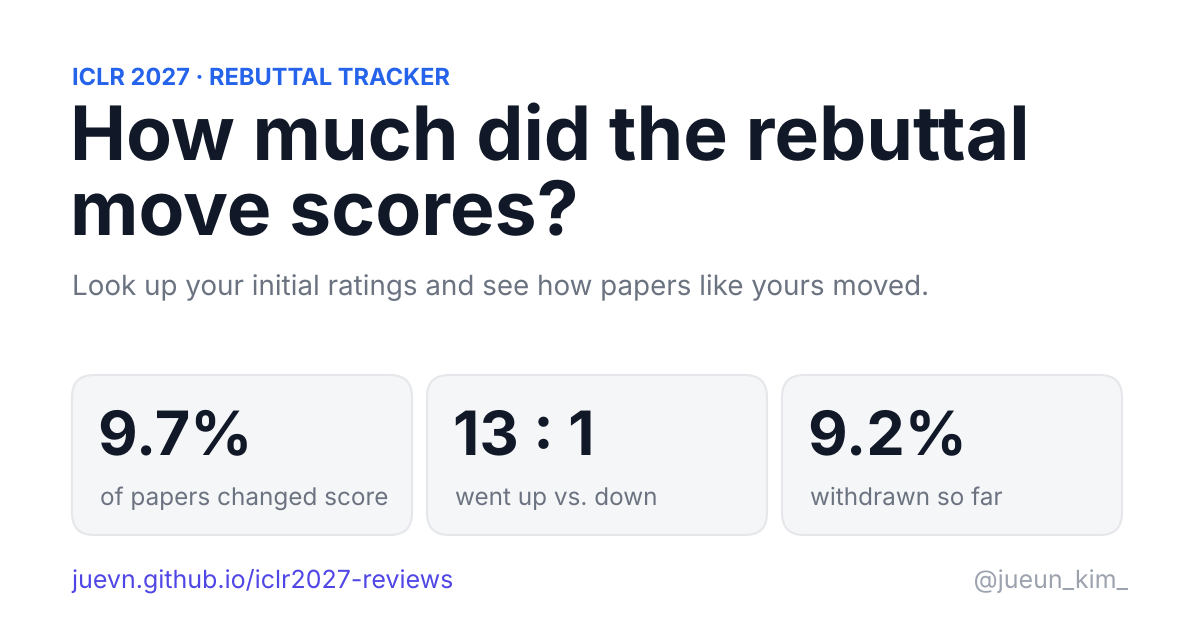
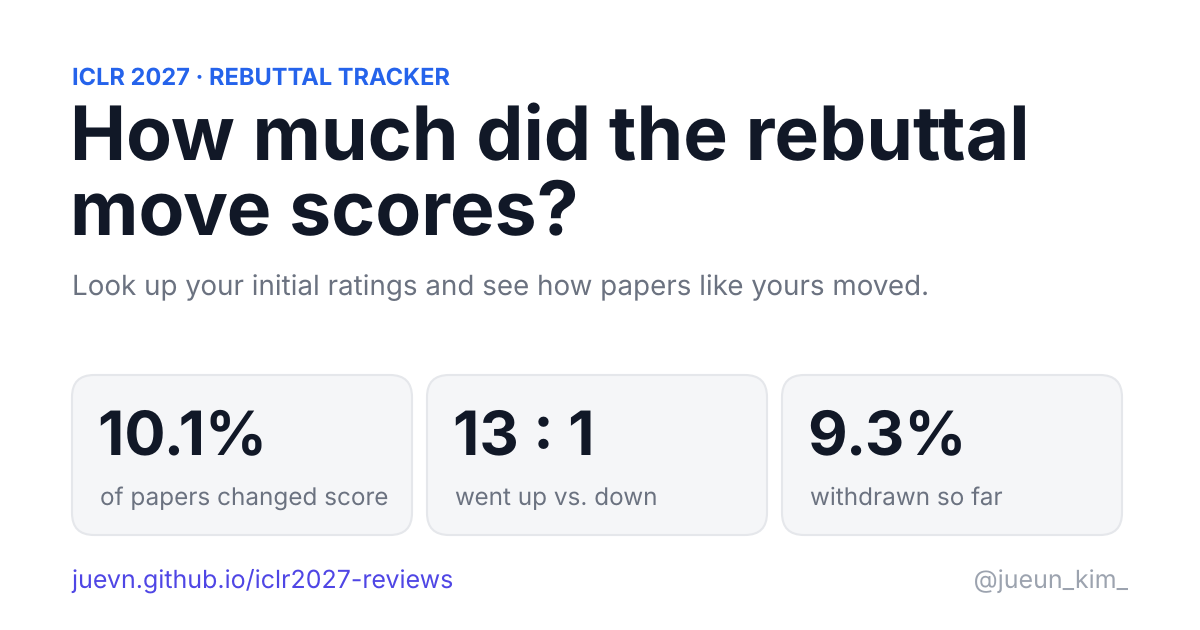
Update to 2026-11-16T16:23Z; show where papers went, record edit times
Claude-Session: https://claude.ai/code/session_01TcxDZfia7MrzcEvY8LDLi9

Changed region(s): [[0.0617, 0.6333, 0.2158, 0.7238], [0.7092, 0.6635, 0.8017, 0.7238]]

diff --git a/data.js b/data.js
@@ -1,27 +1,27 @@
 // Aggregated numbers only. No review text, reviewer ids or per-paper rows.
-// combos: initial ratings on Nov 6 (sorted high to low) ->
+// combos: initial ratings (sorted high to low) ->
 //   [papers, withdrawn, desk_rejected, still active with same review count, went up, went down, mixed, sum of rating-sum changes]
 window.ICLR_DATA = {
   venue: "ICLR 2027",
   scale: [1,4],
   baseline: {"at":"2026-11-06T13:54:47Z","source":"https://shiqiangw.github.io/iclr-2027-scores/","by":"shiqiangw"},
-  updated: "2026-11-16T14:59:02Z",
+  updated: "2026-11-16T16:23:09Z",
   discussionEnds: "2026-11-18",
   decisions: "2026-12-16",
   combos: {
-    "1":[2,0,0,0,0,0,0,0],"2":[2,0,0,0,0,0,0,0],"11":[27,9,0,13,0,0,0,0],"21":[73,11,0,34,0,0,0,0],"22":[104,1,0,64,2,0,0,2],"31":[24,0,0,13,0,0,0,0],
+    "1":[2,0,0,0,0,0,0,0],"2":[2,0,0,0,0,0,0,0],"11":[27,9,0,13,0,0,0,0],"21":[73,11,0,33,0,0,0,0],"22":[104,1,0,63,2,0,0,2],"31":[24,0,0,13,0,0,0,0],
     "32":[75,0,0,34,3,1,0,2],"33":[20,0,0,15,0,0,0,0],"41":[1,0,0,1,0,0,0,0],"42":[5,0,0,3,1,0,0,1],"43":[2,0,0,1,0,0,0,0],"44":[1,0,0,1,0,0,0,0],
-    "111":[764,205,0,557,2,0,0,2],"211":[3062,729,1,2320,53,11,0,51],"221":[6602,1333,4,5244,252,20,0,273],"222":[7463,687,1,6756,548,31,4,590],"311":[651,102,1,543,14,15,0,-2],"321":[3548,257,0,3280,310,35,2,324],
-    "322":[7667,74,2,7568,800,52,1,846],"331":[675,3,0,669,83,7,0,95],"332":[3733,5,1,3713,549,33,3,552],"333":[773,0,0,769,64,1,0,68],"411":[30,2,0,28,3,0,0,4],"421":[215,4,1,210,20,6,0,13],
-    "422":[418,0,0,418,52,11,0,48],"431":[79,0,0,77,5,0,0,8],"432":[515,1,0,513,81,4,0,81],"433":[198,0,0,195,14,0,0,15],"441":[6,0,0,6,2,0,0,3],"442":[40,0,0,39,12,0,1,15],
-    "443":[28,0,0,28,1,0,0,1],"444":[2,0,0,2,0,0,0,0],"1111":[29,4,1,24,0,0,0,0],"2111":[107,26,0,79,1,0,0,1],"2211":[245,55,0,190,5,1,0,5],"2221":[428,67,0,355,22,1,0,24],
-    "2222":[455,57,1,396,38,0,1,40],"3111":[17,4,0,13,0,0,0,0],"3211":[111,12,0,98,4,3,0,2],"3221":[336,25,0,311,28,2,0,36],"3222":[565,20,0,542,79,1,0,87],"3311":[28,3,0,25,1,0,1,1],
-    "3321":[133,2,0,131,22,0,0,25],"3322":[435,1,0,428,76,6,0,84],"3331":[27,0,0,27,4,2,0,2],"3332":[156,0,0,155,33,0,0,34],"3333":[17,0,0,17,0,1,0,-1],"4111":[1,0,0,1,0,0,0,0],
-    "4211":[8,0,0,8,0,0,0,0],"4221":[25,0,0,25,2,0,0,4],"4222":[40,0,0,40,6,0,0,7],"4311":[1,0,0,1,0,0,0,0],"4321":[28,0,0,28,0,2,0,-3],"4322":[51,0,0,51,9,1,0,9],
-    "4331":[8,0,0,8,1,0,0,1],"4332":[38,0,0,38,5,2,0,2],"4333":[7,0,0,7,0,0,0,0],"4421":[1,0,0,1,0,0,0,0],"4422":[3,0,0,3,1,0,0,1],"4431":[2,0,0,2,1,0,0,3],
+    "111":[764,207,0,555,3,0,0,3],"211":[3062,734,1,2315,54,11,0,52],"221":[6602,1344,4,5234,268,23,0,287],"222":[7463,691,1,6752,568,31,4,612],"311":[651,103,1,542,16,15,0,0],"321":[3548,257,0,3280,319,36,2,334],
+    "322":[7667,76,2,7564,831,51,2,881],"331":[675,3,0,669,86,7,0,98],"332":[3733,6,1,3712,577,34,3,581],"333":[773,0,0,769,66,1,0,71],"411":[30,2,0,28,3,0,0,4],"421":[215,4,1,210,22,6,0,15],
+    "422":[418,0,0,418,55,11,0,51],"431":[79,0,0,77,6,1,0,10],"432":[515,1,0,513,83,4,0,83],"433":[198,0,0,195,14,0,0,15],"441":[6,0,0,6,2,0,0,3],"442":[40,0,0,39,12,0,1,15],
+    "443":[28,0,0,28,1,0,0,1],"444":[2,0,0,2,0,0,0,0],"1111":[29,4,1,24,0,0,0,0],"2111":[107,26,0,79,1,0,0,1],"2211":[245,55,0,190,5,1,0,5],"2221":[428,68,0,354,22,1,0,24],
+    "2222":[455,57,1,396,40,0,1,42],"3111":[17,4,0,13,0,0,0,0],"3211":[111,12,0,98,4,3,0,2],"3221":[336,25,0,311,30,3,0,38],"3222":[565,23,0,539,80,1,0,88],"3311":[28,3,0,25,1,0,1,1],
+    "3321":[133,2,0,131,22,0,0,27],"3322":[435,2,0,426,78,6,0,86],"3331":[27,0,0,27,4,2,0,2],"3332":[156,0,0,155,36,0,0,37],"3333":[17,0,0,17,1,1,0,0],"4111":[1,0,0,1,0,0,0,0],
+    "4211":[8,0,0,8,0,0,0,0],"4221":[25,0,0,25,2,0,0,4],"4222":[40,0,0,40,7,0,0,8],"4311":[1,0,0,1,0,0,0,0],"4321":[28,0,0,28,0,2,0,-3],"4322":[51,0,0,51,9,1,0,9],
+    "4331":[8,0,0,8,1,0,0,1],"4332":[38,0,0,38,5,1,1,3],"4333":[7,0,0,7,0,0,0,0],"4421":[1,0,0,1,0,0,0,0],"4422":[3,0,0,3,1,0,0,1],"4431":[2,0,0,2,1,0,0,3],
     "4432":[3,0,0,3,0,0,0,0],"4433":[4,0,0,4,0,0,0,0],"4443":[1,0,0,1,0,0,0,0],"11111":[4,1,0,3,0,0,0,0],"21111":[6,2,0,4,0,0,0,0],"22111":[14,4,0,10,0,0,0,0],
     "22211":[22,4,0,18,0,0,0,0],"22221":[32,6,0,26,1,0,0,2],"22222":[19,2,0,17,1,0,1,1],"32111":[8,2,0,6,1,0,0,1],"32211":[21,4,0,17,2,3,0,0],"32221":[29,9,0,20,2,0,0,2],
-    "32222":[37,2,0,35,4,0,0,4],"33211":[2,0,0,2,0,0,0,0],"33221":[27,0,0,27,6,0,0,10],"33222":[46,1,0,45,12,1,0,12],"33311":[2,0,0,2,0,0,0,0],"33321":[4,0,0,4,1,0,0,1],
+    "32222":[37,2,0,35,5,0,0,5],"33211":[2,0,0,2,0,0,0,0],"33221":[27,0,0,27,6,0,0,11],"33222":[46,1,0,45,12,1,0,14],"33311":[2,0,0,2,0,0,0,0],"33321":[4,0,0,4,1,0,0,1],
     "33322":[14,0,0,14,4,0,0,5],"33331":[2,0,0,2,0,0,0,0],"33332":[7,0,0,7,2,0,0,3],"33333":[2,0,0,2,0,0,0,0],"42221":[3,0,0,3,0,0,0,0],"42222":[1,0,0,1,0,0,0,0],
     "43211":[1,0,0,1,0,0,0,0],"43221":[1,0,0,1,0,0,0,0],"43222":[7,0,0,7,1,0,0,1],"43322":[2,0,0,2,1,0,0,1],"43331":[1,0,0,1,0,0,0,0],"43332":[4,0,0,4,1,0,0,1],
     "43333":[1,0,0,1,0,0,0,0],"44311":[1,0,0,1,0,0,0,0],"44322":[3,0,0,3,0,0,0,0],"44332":[3,0,0,3,1,0,0,1],"211111":[1,1,0,0,0,0,0,0],"221111":[1,0,0,1,0,0,0,0],
@@ -29,16 +29,82 @@ window.ICLR_DATA = {
     "333222":[1,0,0,1,0,0,0,0],"432211":[1,0,0,1,1,0,0,1],"433321":[1,0,0,1,0,0,0,0],"2222211":[1,0,0,1,0,0,0,0]
   },
   // Mean rating now -> number of papers still under review, for ranking a score against today's field.
-  currentMeans: {"n":36831,"h":{"1.00":615,"1.20":5,"1.25":84,"1.33":2312,"1.40":10,"1.50":250,"1.60":29,"1.67":5644,"1.71":1,"1.75":454,"1.80":42,"1.83":2,"2.00":10337,"2.17":4,"2.20":66,"2.25":688,"2.33":8370,"2.40":49,"2.50":586,"2.60":34,"2.67":4491,"2.75":265,"2.80":14,"3.00":1973,"3.20":6,"3.25":21,"3.33":397,"3.40":1,"3.50":6,"3.67":65,"3.75":2,"4.00":8}},
-  // Review-level moves. exact: the pairing of Nov 6 and current ratings is unique.
+  currentMeans: {"n":36800,"h":{"1.00":612,"1.20":5,"1.25":84,"1.33":2310,"1.40":10,"1.50":249,"1.60":29,"1.67":5616,"1.71":1,"1.75":453,"1.80":42,"1.83":2,"2.00":10313,"2.17":4,"2.20":65,"2.25":689,"2.33":8359,"2.40":50,"2.50":582,"2.60":35,"2.67":4493,"2.75":264,"2.80":12,"3.00":2005,"3.20":7,"3.25":22,"3.33":403,"3.40":1,"3.50":6,"3.67":67,"3.75":2,"4.00":8}},
+  // Review-level moves. exact: the pairing of initial and current ratings is unique.
   // inferred: more than one pairing fits, smallest-change one used.
-  reviews: {"analyzed":112741,"modified":13160,"changed":3748,"exact":3506,"inferred":242,"initial":{"1":19180,"2":64797,"3":26891,"4":1873},"moves":{"2>3":2425,"1>2":439,"3>4":398,"2>1":139,"2>4":117,"3>2":108,"1>3":91,"4>3":12,"3>1":9,"4>2":6,"1>4":4}},
+  reviews: {"analyzed":112632,"modified":13431,"changed":3900,"exact":3642,"inferred":258,"initial":{"1":19150,"2":64732,"3":26877,"4":1873},"moves":{"2>3":2526,"1>2":457,"3>4":415,"2>1":142,"2>4":120,"3>2":110,"1>3":95,"4>3":13,"3>1":10,"1>4":6,"4>2":6}},
+  // dest: initial ratings -> current ratings of the papers that changed (same number of reviews), with counts.
+  dest: {
+    "22":{"32":2},
+    "32":{"22":1,"33":3},
+    "42":{"43":1},
+    "111":{"211":3},
+    "211":{"111":11,"221":35,"222":3,"311":12,"321":3,"422":1},
+    "221":{"211":23,"222":116,"321":115,"322":24,"331":5,"332":4,"421":3,"422":1},
+    "222":{"211":1,"221":30,"321":4,"322":497,"331":1,"332":53,"333":5,"422":11,"432":1},
+    "311":{"111":2,"211":13,"321":14,"322":1,"411":1},
+    "321":{"211":1,"221":24,"222":2,"311":11,"322":158,"331":98,"332":26,"333":6,"421":21,"422":2,"431":6,"433":2},
+    "322":{"211":1,"221":2,"222":26,"321":22,"331":2,"332":654,"333":66,"422":79,"431":1,"432":24,"433":6,"443":1},
+    "331":{"311":1,"321":6,"332":49,"333":15,"431":18,"432":3,"433":1},
+    "332":{"222":1,"321":2,"322":18,"331":13,"333":407,"422":1,"431":2,"432":131,"433":32,"441":1,"442":3,"443":3},
+    "333":{"332":1,"433":60,"443":6},
+    "411":{"421":2,"422":1},
+    "421":{"221":2,"321":3,"411":1,"422":13,"431":8,"432":1},
+    "422":{"222":1,"322":5,"421":5,"432":48,"433":5,"442":1,"443":1},
+    "431":{"331":1,"432":1,"433":3,"441":1,"443":1},
+    "432":{"322":1,"431":3,"433":60,"442":18,"443":5},
+    "433":{"443":13,"444":1},
+    "441":{"442":1,"443":1},
+    "442":{"433":1,"443":9,"444":3},
+    "443":{"444":1},
+    "2111":{"2211":1},
+    "2211":{"2111":1,"2221":2,"2222":1,"3211":2},
+    "2221":{"2211":1,"2222":7,"3221":12,"3321":2,"4221":1},
+    "2222":{"3221":1,"3222":38,"4222":2},
+    "3211":{"2211":3,"3221":3,"3321":1},
+    "3221":{"2221":2,"3211":1,"3222":9,"3321":11,"3322":5,"3331":2,"3332":1,"4321":2},
+    "3222":{"3221":1,"3322":66,"3332":4,"4222":6,"4322":3,"4332":1},
+    "3311":{"3221":1,"4311":1},
+    "3321":{"3322":10,"3331":8,"3332":1,"3333":1,"4321":1,"4332":1},
+    "3322":{"3222":5,"3321":1,"3332":53,"3333":9,"4322":12,"4332":2,"4333":1,"4422":1},
+    "3331":{"3311":1,"3321":1,"3332":3,"4332":1},
+    "3332":{"3333":27,"4332":8,"4333":1},
+    "3333":{"3332":1,"4333":1},
+    "4221":{"4222":1,"4431":1},
+    "4222":{"4322":6,"4332":1},
+    "4321":{"3221":1,"3321":1},
+    "4322":{"3322":1,"4332":7,"4333":1,"4422":1},
+    "4331":{"4431":1},
+    "4332":{"3322":1,"3333":1,"4333":5},
+    "4422":{"4432":1},
+    "4431":{"4443":1},
+    "22221":{"42221":1},
+    "22222":{"32221":1,"32222":1},
+    "32111":{"32211":1},
+    "32211":{"22211":3,"32221":1,"33221":1},
+    "32221":{"32222":1,"33221":1},
+    "32222":{"33222":5},
+    "33221":{"33222":2,"33321":2,"33331":1,"44431":1},
+    "33222":{"33221":1,"33322":10,"43222":1,"43333":1},
+    "33321":{"33322":1},
+    "33322":{"33332":2,"33333":1,"43322":1},
+    "33332":{"33333":1,"43333":1},
+    "43222":{"43322":1},
+    "43322":{"43332":1},
+    "43332":{"44332":1},
+    "44332":{"44432":1},
+    "332222":{"332221":1},
+    "432211":{"432221":1}
+  },
+  // moveTimes: changed reviews per move, by 3-hour UTC bucket of the review's last edit (a later text-only edit moves it).
+  moveTimes: {"2>3":{"2026-11-06T15":1,"2026-11-06T18":1,"2026-11-07T03":1,"2026-11-07T18":1,"2026-11-08T03":1,"2026-11-08T12":1,"2026-11-08T15":1,"2026-11-09T03":2,"2026-11-09T15":2,"2026-11-09T18":1,"2026-11-09T21":2,"2026-11-10T03":1,"2026-11-10T06":3,"2026-11-10T09":1,"2026-11-10T12":1,"2026-11-10T18":3,"2026-11-10T21":2,"2026-11-11T00":4,"2026-11-11T03":1,"2026-11-11T06":3,"2026-11-11T09":6,"2026-11-11T12":2,"2026-11-11T15":4,"2026-11-11T18":3,"2026-11-11T21":2,"2026-11-12T00":8,"2026-11-12T03":9,"2026-11-12T06":10,"2026-11-12T09":9,"2026-11-12T12":9,"2026-11-12T15":13,"2026-11-12T18":9,"2026-11-12T21":5,"2026-11-13T00":7,"2026-11-13T03":22,"2026-11-13T06":24,"2026-11-13T09":31,"2026-11-13T12":17,"2026-11-13T15":18,"2026-11-13T18":27,"2026-11-13T21":31,"2026-11-14T00":15,"2026-11-14T03":85,"2026-11-14T06":134,"2026-11-14T09":65,"2026-11-14T12":78,"2026-11-14T15":61,"2026-11-14T18":43,"2026-11-14T21":35,"2026-11-15T00":59,"2026-11-15T03":64,"2026-11-15T06":109,"2026-11-15T09":88,"2026-11-15T12":88,"2026-11-15T15":97,"2026-11-15T18":41,"2026-11-15T21":47,"2026-11-16T00":120,"2026-11-16T03":199,"2026-11-16T06":254,"2026-11-16T09":217,"2026-11-16T12":227,"2026-11-16T15":101},"1>2":{"2026-11-07T12":1,"2026-11-07T15":1,"2026-11-07T18":1,"2026-11-08T00":1,"2026-11-08T06":1,"2026-11-08T18":1,"2026-11-09T00":1,"2026-11-09T03":1,"2026-11-09T06":2,"2026-11-10T00":1,"2026-11-10T12":4,"2026-11-10T15":1,"2026-11-10T18":2,"2026-11-11T00":1,"2026-11-11T03":1,"2026-11-11T06":1,"2026-11-11T12":1,"2026-11-11T18":2,"2026-11-11T21":1,"2026-11-12T03":2,"2026-11-12T06":2,"2026-11-12T09":1,"2026-11-12T12":4,"2026-11-12T15":2,"2026-11-12T18":1,"2026-11-12T21":2,"2026-11-13T00":1,"2026-11-13T03":8,"2026-11-13T06":5,"2026-11-13T09":7,"2026-11-13T12":6,"2026-11-13T15":6,"2026-11-13T18":5,"2026-11-13T21":5,"2026-11-14T00":3,"2026-11-14T03":20,"2026-11-14T06":15,"2026-11-14T09":21,"2026-11-14T12":14,"2026-11-14T15":13,"2026-11-14T18":11,"2026-11-14T21":5,"2026-11-15T00":9,"2026-11-15T03":14,"2026-11-15T06":10,"2026-11-15T09":17,"2026-11-15T12":15,"2026-11-15T15":10,"2026-11-15T18":14,"2026-11-15T21":11,"2026-11-16T00":20,"2026-11-16T03":27,"2026-11-16T06":31,"2026-11-16T09":32,"2026-11-16T12":43,"2026-11-16T15":20},"3>4":{"2026-11-06T15":1,"2026-11-07T21":1,"2026-11-08T12":1,"2026-11-08T21":1,"2026-11-09T06":1,"2026-11-09T09":1,"2026-11-09T12":1,"2026-11-10T03":1,"2026-11-10T06":1,"2026-11-10T09":1,"2026-11-10T12":2,"2026-11-11T12":2,"2026-11-11T15":1,"2026-11-11T18":1,"2026-11-11T21":2,"2026-11-12T03":1,"2026-11-12T06":1,"2026-11-12T12":3,"2026-11-12T15":2,"2026-11-12T18":3,"2026-11-12T21":4,"2026-11-13T00":1,"2026-11-13T03":6,"2026-11-13T06":10,"2026-11-13T09":7,"2026-11-13T12":6,"2026-11-13T15":3,"2026-11-13T18":3,"2026-11-13T21":6,"2026-11-14T00":4,"2026-11-14T03":15,"2026-11-14T06":17,"2026-11-14T09":9,"2026-11-14T12":21,"2026-11-14T15":9,"2026-11-14T18":8,"2026-11-14T21":2,"2026-11-15T00":8,"2026-11-15T03":11,"2026-11-15T06":13,"2026-11-15T09":16,"2026-11-15T12":18,"2026-11-15T15":11,"2026-11-15T18":10,"2026-11-15T21":4,"2026-11-16T00":23,"2026-11-16T03":30,"2026-11-16T06":33,"2026-11-16T09":32,"2026-11-16T12":29,"2026-11-16T15":18},"2>1":{"2026-11-06T12":2,"2026-11-06T15":3,"2026-11-06T18":2,"2026-11-07T00":1,"2026-11-07T03":4,"2026-11-07T06":2,"2026-11-07T09":1,"2026-11-07T12":1,"2026-11-08T03":1,"2026-11-08T15":1,"2026-11-09T03":1,"2026-11-09T06":1,"2026-11-09T09":1,"2026-11-09T18":1,"2026-11-10T18":3,"2026-11-11T09":1,"2026-11-11T12":1,"2026-11-12T00":1,"2026-11-12T03":2,"2026-11-12T12":3,"2026-11-12T15":2,"2026-11-13T03":1,"2026-11-13T06":3,"2026-11-13T09":3,"2026-11-13T15":3,"2026-11-13T18":1,"2026-11-13T21":3,"2026-11-14T03":10,"2026-11-14T06":6,"2026-11-14T09":4,"2026-11-14T12":1,"2026-11-14T15":5,"2026-11-14T18":4,"2026-11-15T00":1,"2026-11-15T03":1,"2026-11-15T06":7,"2026-11-15T09":5,"2026-11-15T12":3,"2026-11-15T15":4,"2026-11-15T18":5,"2026-11-16T00":4,"2026-11-16T03":9,"2026-11-16T06":9,"2026-11-16T09":3,"2026-11-16T12":8,"2026-11-16T15":4},"2>4":{"2026-11-07T03":4,"2026-11-08T15":1,"2026-11-09T09":1,"2026-11-10T09":2,"2026-11-10T18":1,"2026-11-11T09":1,"2026-11-12T03":1,"2026-11-12T12":2,"2026-11-12T15":2,"2026-11-12T18":1,"2026-11-13T03":2,"2026-11-13T09":3,"2026-11-13T12":1,"2026-11-13T15":3,"2026-11-13T18":1,"2026-11-13T21":3,"2026-11-14T00":2,"2026-11-14T03":4,"2026-11-14T06":9,"2026-11-14T09":1,"2026-11-14T12":1,"2026-11-14T15":9,"2026-11-14T18":3,"2026-11-14T21":2,"2026-11-15T00":4,"2026-11-15T03":5,"2026-11-15T06":4,"2026-11-15T09":5,"2026-11-15T12":5,"2026-11-15T15":1,"2026-11-15T18":3,"2026-11-15T21":2,"2026-11-16T00":4,"2026-11-16T03":4,"2026-11-16T06":9,"2026-11-16T09":7,"2026-11-16T12":5,"2026-11-16T15":2},"3>2":{"2026-11-06T12":2,"2026-11-06T15":4,"2026-11-06T18":3,"2026-11-06T21":1,"2026-11-07T00":1,"2026-11-07T03":4,"2026-11-07T06":2,"2026-11-07T09":1,"2026-11-08T03":1,"2026-11-08T15":1,"2026-11-09T03":1,"2026-11-09T06":1,"2026-11-09T15":1,"2026-11-10T06":1,"2026-11-11T09":1,"2026-11-11T12":2,"2026-11-12T00":2,"2026-11-12T03":1,"2026-11-12T09":2,"2026-11-13T03":2,"2026-11-13T06":2,"2026-11-13T09":2,"2026-11-13T18":1,"2026-11-14T03":4,"2026-11-14T06":6,"2026-11-14T09":2,"2026-11-14T12":2,"2026-11-14T15":4,"2026-11-14T18":4,"2026-11-15T00":1,"2026-11-15T03":2,"2026-11-15T06":6,"2026-11-15T09":3,"2026-11-15T12":2,"2026-11-15T15":4,"2026-11-15T18":2,"2026-11-16T00":4,"2026-11-16T03":6,"2026-11-16T06":11,"2026-11-16T09":1,"2026-11-16T12":4,"2026-11-16T15":3},"1>3":{"2026-11-07T03":1,"2026-11-12T00":1,"2026-11-12T03":1,"2026-11-12T06":1,"2026-11-12T15":2,"2026-11-12T18":3,"2026-11-12T21":1,"2026-11-13T00":1,"2026-11-13T03":1,"2026-11-13T06":1,"2026-11-13T09":2,"2026-11-13T12":3,"2026-11-13T15":2,"2026-11-13T18":2,"2026-11-13T21":3,"2026-11-14T03":1,"2026-11-14T06":7,"2026-11-14T09":2,"2026-11-14T15":6,"2026-11-14T18":6,"2026-11-14T21":1,"2026-11-15T00":5,"2026-11-15T06":3,"2026-11-15T09":2,"2026-11-15T12":4,"2026-11-15T15":2,"2026-11-15T18":4,"2026-11-15T21":5,"2026-11-16T00":2,"2026-11-16T03":5,"2026-11-16T06":7,"2026-11-16T09":2,"2026-11-16T12":5,"2026-11-16T15":1},"4>3":{"2026-11-06T12":2,"2026-11-07T15":1,"2026-11-11T06":1,"2026-11-11T12":1,"2026-11-13T06":1,"2026-11-13T09":1,"2026-11-14T06":1,"2026-11-14T18":1,"2026-11-15T21":1,"2026-11-16T00":1,"2026-11-16T06":1,"2026-11-16T15":1},"3>1":{"2026-11-07T03":1,"2026-11-08T09":1,"2026-11-11T00":1,"2026-11-14T03":1,"2026-11-14T06":1,"2026-11-15T09":1,"2026-11-15T21":1,"2026-11-16T00":1,"2026-11-16T06":2},"1>4":{"2026-11-13T09":1,"2026-11-13T15":1,"2026-11-14T06":1,"2026-11-15T12":1,"2026-11-16T09":1,"2026-11-16T15":1},"4>2":{"2026-11-06T12":1,"2026-11-13T06":1,"2026-11-14T06":1,"2026-11-15T15":1,"2026-11-16T12":2}},
   // One row per update: papers still active with the same number of reviews, and how many moved.
   timeline: [
     {"at":"2026-11-06T13:54:47Z","sc":40458,"up":0,"down":0,"mixed":0,"withdrawn":0},
     {"at":"2026-11-16T06:21:22Z","sc":36671,"up":2436,"down":225,"mixed":12,"withdrawn":3498},
     {"at":"2026-11-16T07:22:44Z","sc":36628,"up":2540,"down":228,"mixed":12,"withdrawn":3541},
     {"at":"2026-11-16T12:26:30Z","sc":36499,"up":3017,"down":244,"mixed":13,"withdrawn":3670},
-    {"at":"2026-11-16T14:59:02Z","sc":36429,"up":3250,"down":254,"mixed":14,"withdrawn":3739}
+    {"at":"2026-11-16T14:59:02Z","sc":36429,"up":3250,"down":254,"mixed":14,"withdrawn":3739},
+    {"at":"2026-11-16T16:23:09Z","sc":36394,"up":3384,"down":259,"mixed":16,"withdrawn":3770}
   ]
 };

diff --git a/index.html b/index.html
@@ -107,6 +107,15 @@ p.ss { color: var(--muted); margin: 0 0 16px; font-size: 16px; max-width: 720px;
 .compare { margin-top: 16px; font-size: 15px; color: var(--muted); line-height: 1.6; }
 .compare b { color: var(--ink); }
 .note { margin-top: 10px; font-size: 13.5px; color: var(--faint); }
+.dest { margin-top: 20px; background: var(--bg); border: 1px solid var(--line); border-radius: 14px; padding: 14px 16px 12px; }
+.dest .dh { font-size: 15px; font-weight: 700; margin-bottom: 2px; }
+.dest .ds { font-size: 13.5px; color: var(--muted); margin-bottom: 10px; }
+.drow { display: grid; grid-template-columns: minmax(84px, auto) 1fr 64px 52px; gap: 12px; align-items: center; padding: 5px 0; font-variant-numeric: tabular-nums; }
+.drow .dk { font-weight: 700; letter-spacing: 2px; white-space: nowrap; }
+.drow .db { height: 10px; border-radius: 5px; background: var(--panel); overflow: hidden; }
+.drow .db i { display: block; height: 100%; border-radius: 0 4px 4px 0; }
+.drow .dn { text-align: right; font-weight: 600; }
+.drow .dm { text-align: right; color: var(--muted); font-size: 13.5px; }
 
 /* charts */
 .chartcard { background: var(--panel); border: 1px solid var(--line); border-radius: 24px; padding: 20px 20px 12px; position: relative; }
@@ -140,6 +149,8 @@ table.tl th { color: var(--muted); font-weight: 500; font-size: 13.5px; }
   .lookup { padding: 16px; border-radius: 20px; }
   .chartcard { padding: 16px 14px 10px; border-radius: 20px; }
   .inrow .btn { width: 100%; }
+  .drow { grid-template-columns: auto 1fr 44px 44px; gap: 8px; }
+  .drow .dk { letter-spacing: 1px; }
   .nav a.hide-s { display: none; }
   .brand .x { display: none; }
 }
@@ -328,7 +339,20 @@ table.tl th { color: var(--muted); font-weight: 500; font-size: 13.5px; }
       <div class="compare">Up, down and same are shares of the ${fmt(c.sc)} papers still under review with ${r.length} reviews. Withdrawn is a share of all ${fmt(c.n)}.
         ${key.length && same.sc > c.sc ? `<br>All papers with mean <b>${mean.toFixed(2)}</b>, any combination: <b>${pct(same.up, same.sc)}</b> up, <b>${pct(same.down, same.sc)}</b> down.` : ''}</div>
       ${c.sc < 30 ? '<div class="note">Few papers started like this, so these shares are noisy.</div>' : ''}
-      ${other > 0 ? `<div class="note">${fmt(other)} more gained or lost a review and are not counted in up/down.</div>` : ''}`;
+      ${other > 0 ? `<div class="note">${fmt(other)} more gained or lost a review and are not counted in up/down.</div>` : ''}
+      ${destHtml(key, mean)}`;
+  }
+  // where the papers that changed ended up
+  function destHtml(key, mean) {
+    const d = D.dest && D.dest[key]; if (!d) return '';
+    const ent = Object.entries(d).sort((a, b) => b[1] - a[1]);
+    const moved = ent.reduce((a, [, n]) => a + n, 0), top = ent.slice(0, 5), rest = moved - top.reduce((a, [, n]) => a + n, 0);
+    const rows = top.map(([k, n]) => {
+      const r = k.split('').map(Number), dm = (r.reduce((a, b) => a + b, 0) - key.split('').reduce((a, b) => a + +b, 0)) / r.length;
+      const col = dm > 0.001 ? 'var(--up)' : dm < -0.001 ? 'var(--down)' : 'var(--same)';
+      return `<div class="drow"><span class="dk">${r.join(' ')}</span><span class="db"><i style="width:${Math.max(3, 100 * n / top[0][1])}%;background:${col}"></i></span><span class="dn">${fmt(n)}</span><span class="dm">${dm > 0.001 ? '+' : ''}${Math.abs(dm) < 0.001 ? '±0' : dm.toFixed(2)}</span></div>`;
+    }).join('');
+    return `<div class="dest"><div class="dh">Where they went</div><div class="ds">Current scores of the ${fmt(moved)} paper${moved === 1 ? '' : 's'} that changed, with the change in mean.</div>${rows}${rest ? `<div class="note">${fmt(rest)} more in ${ent.length - 5} other combination${ent.length - 5 === 1 ? '' : 's'}.</div>` : ''}</div>`;
   }
   $('form').addEventListener('submit', (e) => { e.preventDefault(); const k = parse($('q').value); show(k); if (k) history.replaceState(null, '', '#' + k); });
   const fromHash = location.hash.replace('#', ''); if (/^[1-4]{1,7}$/.test(fromHash)) { const k = fromHash.split('').sort((a, b) => b - a).join(''); $('q').value = k.split('').join(' '); show(k); }

diff --git a/tools/build_data.js b/tools/build_data.js
@@ -8,17 +8,31 @@ const row = U.timelineRow;
 const ok = t[3] === row.sc && t[4] === row.up && t[5] === row.down && t[6] === row.mixed && t[1] === row.withdrawn
   && Object.values(U.reviews.moves).reduce((a, b) => a + b, 0) === U.reviews.changed && t[0] === 40458;
 if (!ok) { console.error('MISMATCH', t, row); process.exit(1); }
+// edit-time buckets must add up to each move
+if (U.reviews.times) for (const [k, n] of Object.entries(U.reviews.moves)) {
+  const s = Object.values(U.reviews.times[k] || {}).reduce((a, b) => a + b, 0);
+  if (s !== n) { console.error('TIMES MISMATCH', k, s, n); process.exit(1); }
+}
+// destinations must add up to the changed papers of each initial combo
+if (U.dest) for (const [k, v] of Object.entries(U.combos)) {
+  const s = Object.values(U.dest[k] || {}).reduce((a, b) => a + b, 0);
+  if (s !== v[4] + v[5] + v[6]) { console.error('DEST MISMATCH', k, s, v); process.exit(1); }
+}
 if (!D.timeline.some(r => r.at === row.at)) D.timeline.push({ at: row.at.replace(/\.\d+Z$/, 'Z'), sc: row.sc, up: row.up, down: row.down, mixed: row.mixed, withdrawn: row.withdrawn });
 D.updated = U.updated.replace(/\.\d+Z$/, 'Z'); D.combos = U.combos; D.currentMeans = U.currentMeans;
 const order = ['1>2','1>3','1>4','2>1','2>3','2>4','3>1','3>2','3>4','4>2','4>3'];
 const moves = Object.fromEntries(Object.entries(U.reviews.moves).sort((a, b) => b[1] - a[1]));
 D.reviews = { analyzed: U.reviews.analyzed, modified: U.reviews.modified, changed: U.reviews.changed, exact: U.reviews.exact, inferred: U.reviews.inferred, initial: U.reviews.initial, moves };
+const sortObj = (o, f) => Object.fromEntries(Object.entries(o).sort(f));
+if (U.dest) D.dest = sortObj(Object.fromEntries(Object.entries(U.dest).map(([k, v]) => [k, sortObj(v, (a, b) => b[1] - a[1])])), (a, b) => a[0] < b[0] ? 1 : -1);
+const total = (o) => Object.values(o).reduce((x, y) => x + y, 0);
+if (U.reviews.times) D.moveTimes = sortObj(Object.fromEntries(Object.entries(U.reviews.times).map(([k, v]) => [k, sortObj(v, (a, b) => a[0] < b[0] ? -1 : 1)])), (a, b) => total(b[1]) - total(a[1]));
 const J = (o) => JSON.stringify(o);
 const comboLines = []; let line = [];
 for (const [k, v] of Object.entries(D.combos)) { line.push(`${J(k)}:${J(v)}`); if (line.length === 6) { comboLines.push('    ' + line.join(',')); line = []; } }
 if (line.length) comboLines.push('    ' + line.join(','));
 const out = `// Aggregated numbers only. No review text, reviewer ids or per-paper rows.
-// combos: initial ratings on Nov 6 (sorted high to low) ->
+// combos: initial ratings (sorted high to low) ->
 //   [papers, withdrawn, desk_rejected, still active with same review count, went up, went down, mixed, sum of rating-sum changes]
 window.ICLR_DATA = {
   venue: ${J(D.venue)},
@@ -32,10 +46,16 @@ ${comboLines.join(',\n')}
   },
   // Mean rating now -> number of papers still under review, for ranking a score against today's field.
   currentMeans: ${J(D.currentMeans)},
-  // Review-level moves. exact: the pairing of Nov 6 and current ratings is unique.
+  // Review-level moves. exact: the pairing of initial and current ratings is unique.
   // inferred: more than one pairing fits, smallest-change one used.
   reviews: ${J(D.reviews)},
-  // One row per update: papers still active with the same number of reviews, and how many moved.
+${D.dest ? `  // dest: initial ratings -> current ratings of the papers that changed (same number of reviews), with counts.
+  dest: {
+${Object.entries(D.dest).map(([k, v]) => '    ' + J(k) + ':' + J(v)).join(',\n')}
+  },
+` : ''}${D.moveTimes ? `  // moveTimes: changed reviews per move, by 3-hour UTC bucket of the review's last edit (a later text-only edit moves it).
+  moveTimes: ${J(D.moveTimes)},
+` : ''}  // One row per update: papers still active with the same number of reviews, and how many moved.
   timeline: [
 ${D.timeline.map(r => '    ' + J(r)).join(',\n')}
   ]

diff --git a/tools/collect.js b/tools/collect.js
@@ -1,7 +1,7 @@
 // Rebuilds the numbers in data.js. Runs in a signed-in openreview.net browser tab.
 //
 // 1. Baseline. OpenReview's content policy blocks fetching other sites from its pages, so the
-//    Nov 6 snapshot is handed over through window.name, in the SAME tab:
+//    initial snapshot is handed over through window.name, in the SAME tab:
 //      a. open https://shiqiangw.github.io/iclr-2027-scores/ and run:
 //           const p = await fetch('data/papers.json', { cache: 'no-store' }).then(r => r.json());
 //           window.name = 'ICLRINIT\n' + p.rows.map(([n, f, t, r]) => n + '\t' + r.join('')).join('\n');
@@ -60,7 +60,7 @@
       }
       const finished = new Date().toISOString();
 
-      const combos = {}, moves = {}, initial = {};
+      const combos = {}, moves = {}, initial = {}, dest = {}, times = {};
       const rv = { analyzed: 0, modified: 0, changed: 0, exact: 0, inferred: 0 };
       const row = { sc: 0, up: 0, down: 0, mixed: 0, withdrawn: 0 };
       for (const [n, r0] of Object.entries(C.init)) {
@@ -75,7 +75,10 @@
         if (r1.length !== r0.length) continue;
         g[3]++; row.sc++;
         const same = r1.every((v, i) => v === r0[i]), dd = sum(r1) - sum(r0);
-        if (!same) { if (dd > 0) { g[4]++; row.up++; } else if (dd < 0) { g[5]++; row.down++; } else { g[6]++; row.mixed++; } }
+        if (!same) {
+          if (dd > 0) { g[4]++; row.up++; } else if (dd < 0) { g[5]++; row.down++; } else { g[6]++; row.mixed++; }
+          const d = dest[r0.join('')] = dest[r0.join('')] || {}; d[r1.join('')] = (d[r1.join('')] || 0) + 1;
+        }
         g[7] += dd;
         // review-level moves: reviews untouched since the snapshot keep their rating
         if (revs.some(x => x.tc > SNAP_TS)) continue;
@@ -86,12 +89,16 @@
         if (!ok || pool.length !== mod.length) continue;
         rv.analyzed += r0.length; rv.modified += mod.length;
         for (const v of r0) initial[v] = (initial[v] || 0) + 1;
-        const curVals = mod.map(x => x.v);
-        const unique = mod.length === 1 || new Set(pool).size === 1 || new Set(curVals).size === 1;
+        const unique = mod.length === 1 || new Set(pool).size === 1 || new Set(mod.map(x => x.v)).size === 1;
         const rest = [];
-        for (const v of curVals) { const i = pool.indexOf(v); if (i >= 0) pool.splice(i, 1); else rest.push(v); }
-        pool.sort((a, b) => a - b); rest.sort((a, b) => a - b);
-        rest.forEach((to, i) => { const k = pool[i] + '>' + to; moves[k] = (moves[k] || 0) + 1; rv.changed++; unique ? rv.exact++ : rv.inferred++; });
+        for (const x of mod) { const i = pool.indexOf(x.v); if (i >= 0) pool.splice(i, 1); else rest.push(x); }
+        pool.sort((a, b) => a - b); rest.sort((a, b) => a.v - b.v);
+        rest.forEach((x, i) => {
+          const k = pool[i] + '>' + x.v; moves[k] = (moves[k] || 0) + 1; rv.changed++; unique ? rv.exact++ : rv.inferred++;
+          // 3-hour UTC bucket of the review's last edit ("2026-11-16T12" = 12:00-14:59)
+          const iso = new Date(x.tm).toISOString(), hr = iso.slice(0, 11) + String(Math.floor(+iso.slice(11, 13) / 3) * 3).padStart(2, '0');
+          const t = times[k] = times[k] || {}; t[hr] = (t[hr] || 0) + 1;
+        });
       }
       const h = {}; let nNow = 0;
       for (const c of Object.values(C.cur)) {
@@ -102,7 +109,7 @@
         h[m] = (h[m] || 0) + 1; nNow++;
       }
       const sorted = Object.fromEntries(Object.entries(h).sort((a, b) => +a[0] - +b[0]));
-      C.out = { updated: finished, combos, currentMeans: { n: nNow, h: sorted }, reviews: { ...rv, initial, moves }, timelineRow: { at: finished, ...row } };
+      C.out = { updated: finished, combos, dest, currentMeans: { n: nNow, h: sorted }, reviews: { ...rv, initial, moves, times }, timelineRow: { at: finished, ...row } };
       C.done = true;
     } catch (e) { C.progress.error = String(e); }
   })();

diff --git a/README.md b/README.md
@@ -33,14 +33,14 @@ How much did the ICLR 2027 rebuttal move review scores? Every paper's initial re
 | 6 | Ratings changed but the sum stayed the same |
 | 7 | Total change in rating sums |
 
-`currentMeans` counts papers still under review by their current mean rating, so a score can be ranked against today's field. `reviews` holds review-level moves (`"2>3"`: reviews that were initially 2 and are 3 now). `timeline` has one row per update.
+`currentMeans` counts papers still under review by their current mean rating, so a score can be ranked against today's field. `reviews` holds review-level moves (`"2>3"`: reviews that were initially 2 and are 3 now). `dest` lists, for each initial combination, the current scores of the papers that changed. `moveTimes` counts changed reviews per move by 3-hour UTC bucket of the review's last edit. `timeline` has one row per update.
 
 ## How it was made
 
 - **Initial scores.** The snapshot taken right after reviews were released (Nov 6, 13:54 UTC), published at [shiqiangw.github.io/iclr-2027-scores](https://shiqiangw.github.io/iclr-2027-scores/) ([repo](https://github.com/shiqiangw/iclr-2027-scores)), about a day after reviews were released.
 - **Current ratings.** The OpenReview API: every ICLR 2027 submission with its official reviews.
 - **Score changes.** A paper's scores now against its initial scores. Only papers still under review with the same number of reviews are counted.
-- **Review-level moves.** Reviews not edited since the snapshot keep their initial rating, which pins down the rest. When several reviews on one paper were edited and more than one pairing fits, edits that kept the rating count as text-only and the rest are paired by smallest change. This applies to 242 of 3,748 changed reviews (6%, as of Nov 16); the other 94% are pinned down exactly.
+- **Review-level moves.** Reviews not edited since the snapshot keep their initial rating, which pins down the rest. When several reviews on one paper were edited and more than one pairing fits, edits that kept the rating count as text-only and the rest are paired by smallest change. This applies to 258 of 3,900 changed reviews (7%, as of Nov 17); the rest are pinned down exactly.
 - **Privacy.** Only counts are published. No review text, reviewer ids, paper titles or author names.
 
 Made by [Jueun Kim](https://juevn.github.io/) ([@jueun_kim_](https://x.com/jueun_kim_)). Also: [NeurIPS 2026 Explorer](https://juevn.github.io/neurips2026/).
